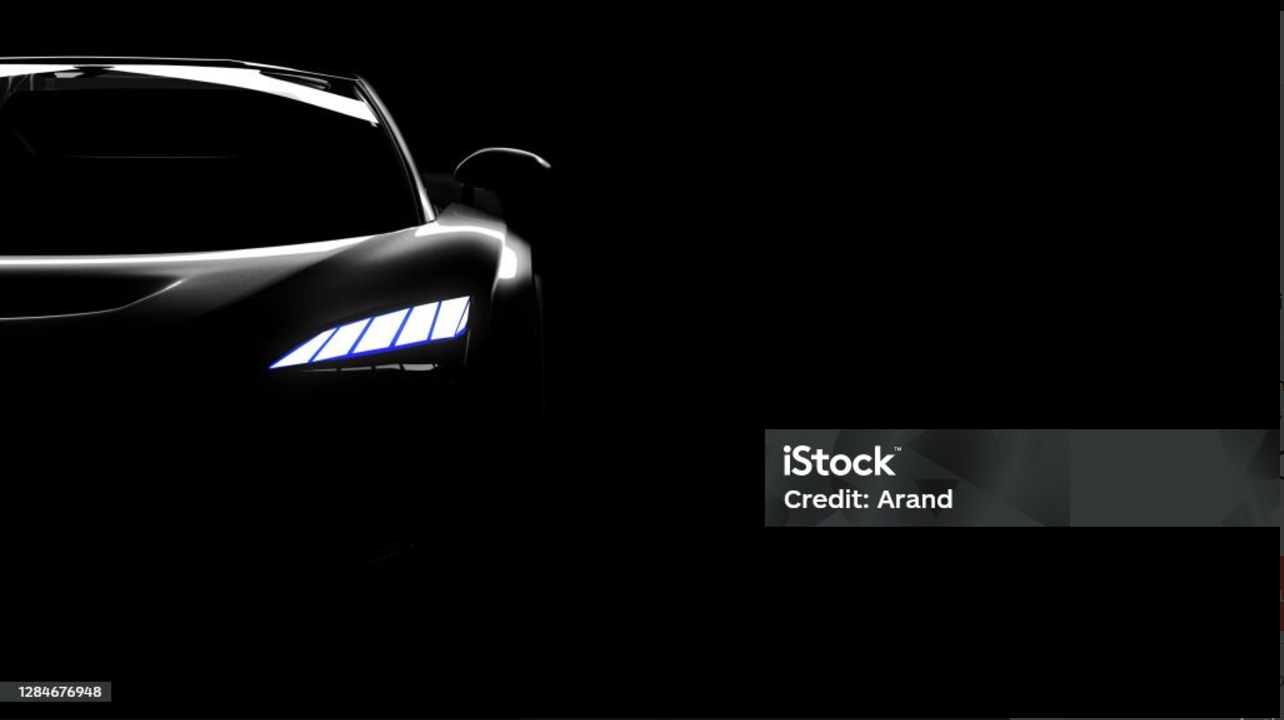
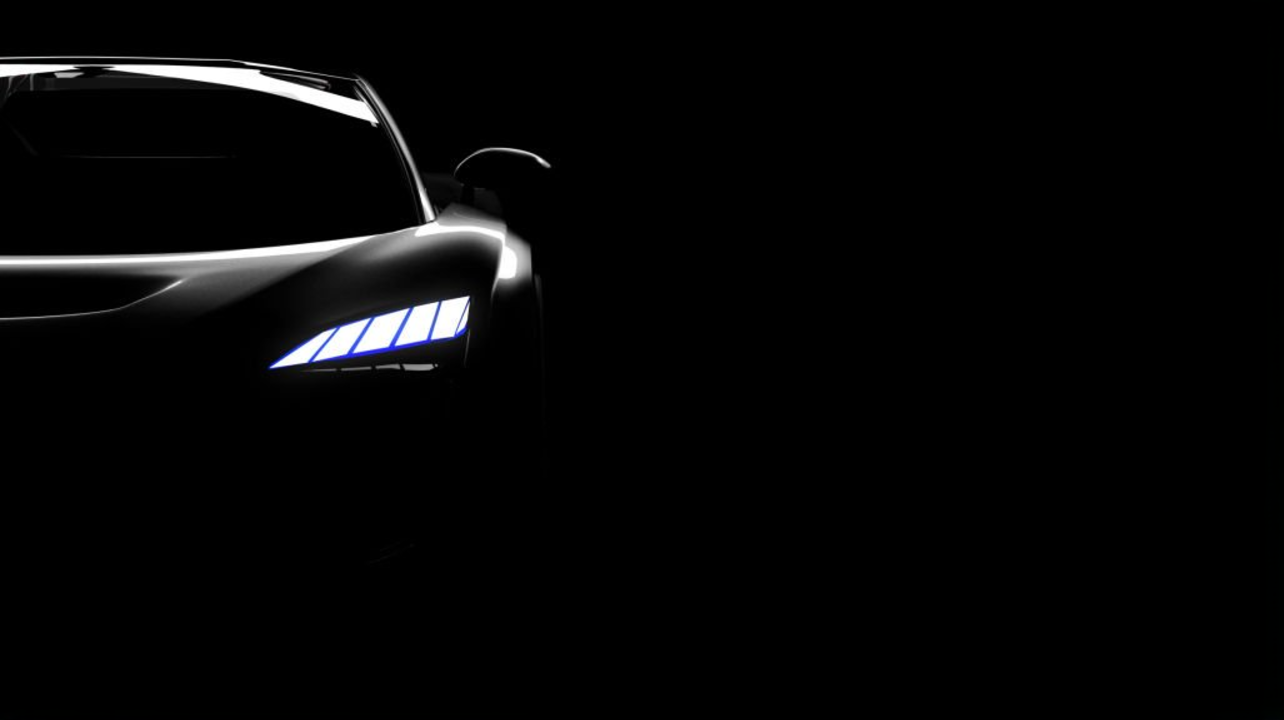
new home page background

Changed region(s): [[0.5919, 0.0, 1.0, 1.0], [0.0, 0.9472, 0.0935, 0.9778]]

diff --git a/html/Home_Page.html b/html/Home_Page.html
@@ -41,7 +41,7 @@
                     We offer a wide extend of rental cars to suit your needs. Wether 
                     you arranging a weekend travel or a business trip 
                 </p>
-                <button class="btn-2 btn-hero" onclick = "window.location.href = 'concat.html'">
+                <button class="btn-2 btn-hero" onclick = "window.location.href = 'offices.html'">
                     Get Started
                 </button>
                 <div class="download-buttons">
